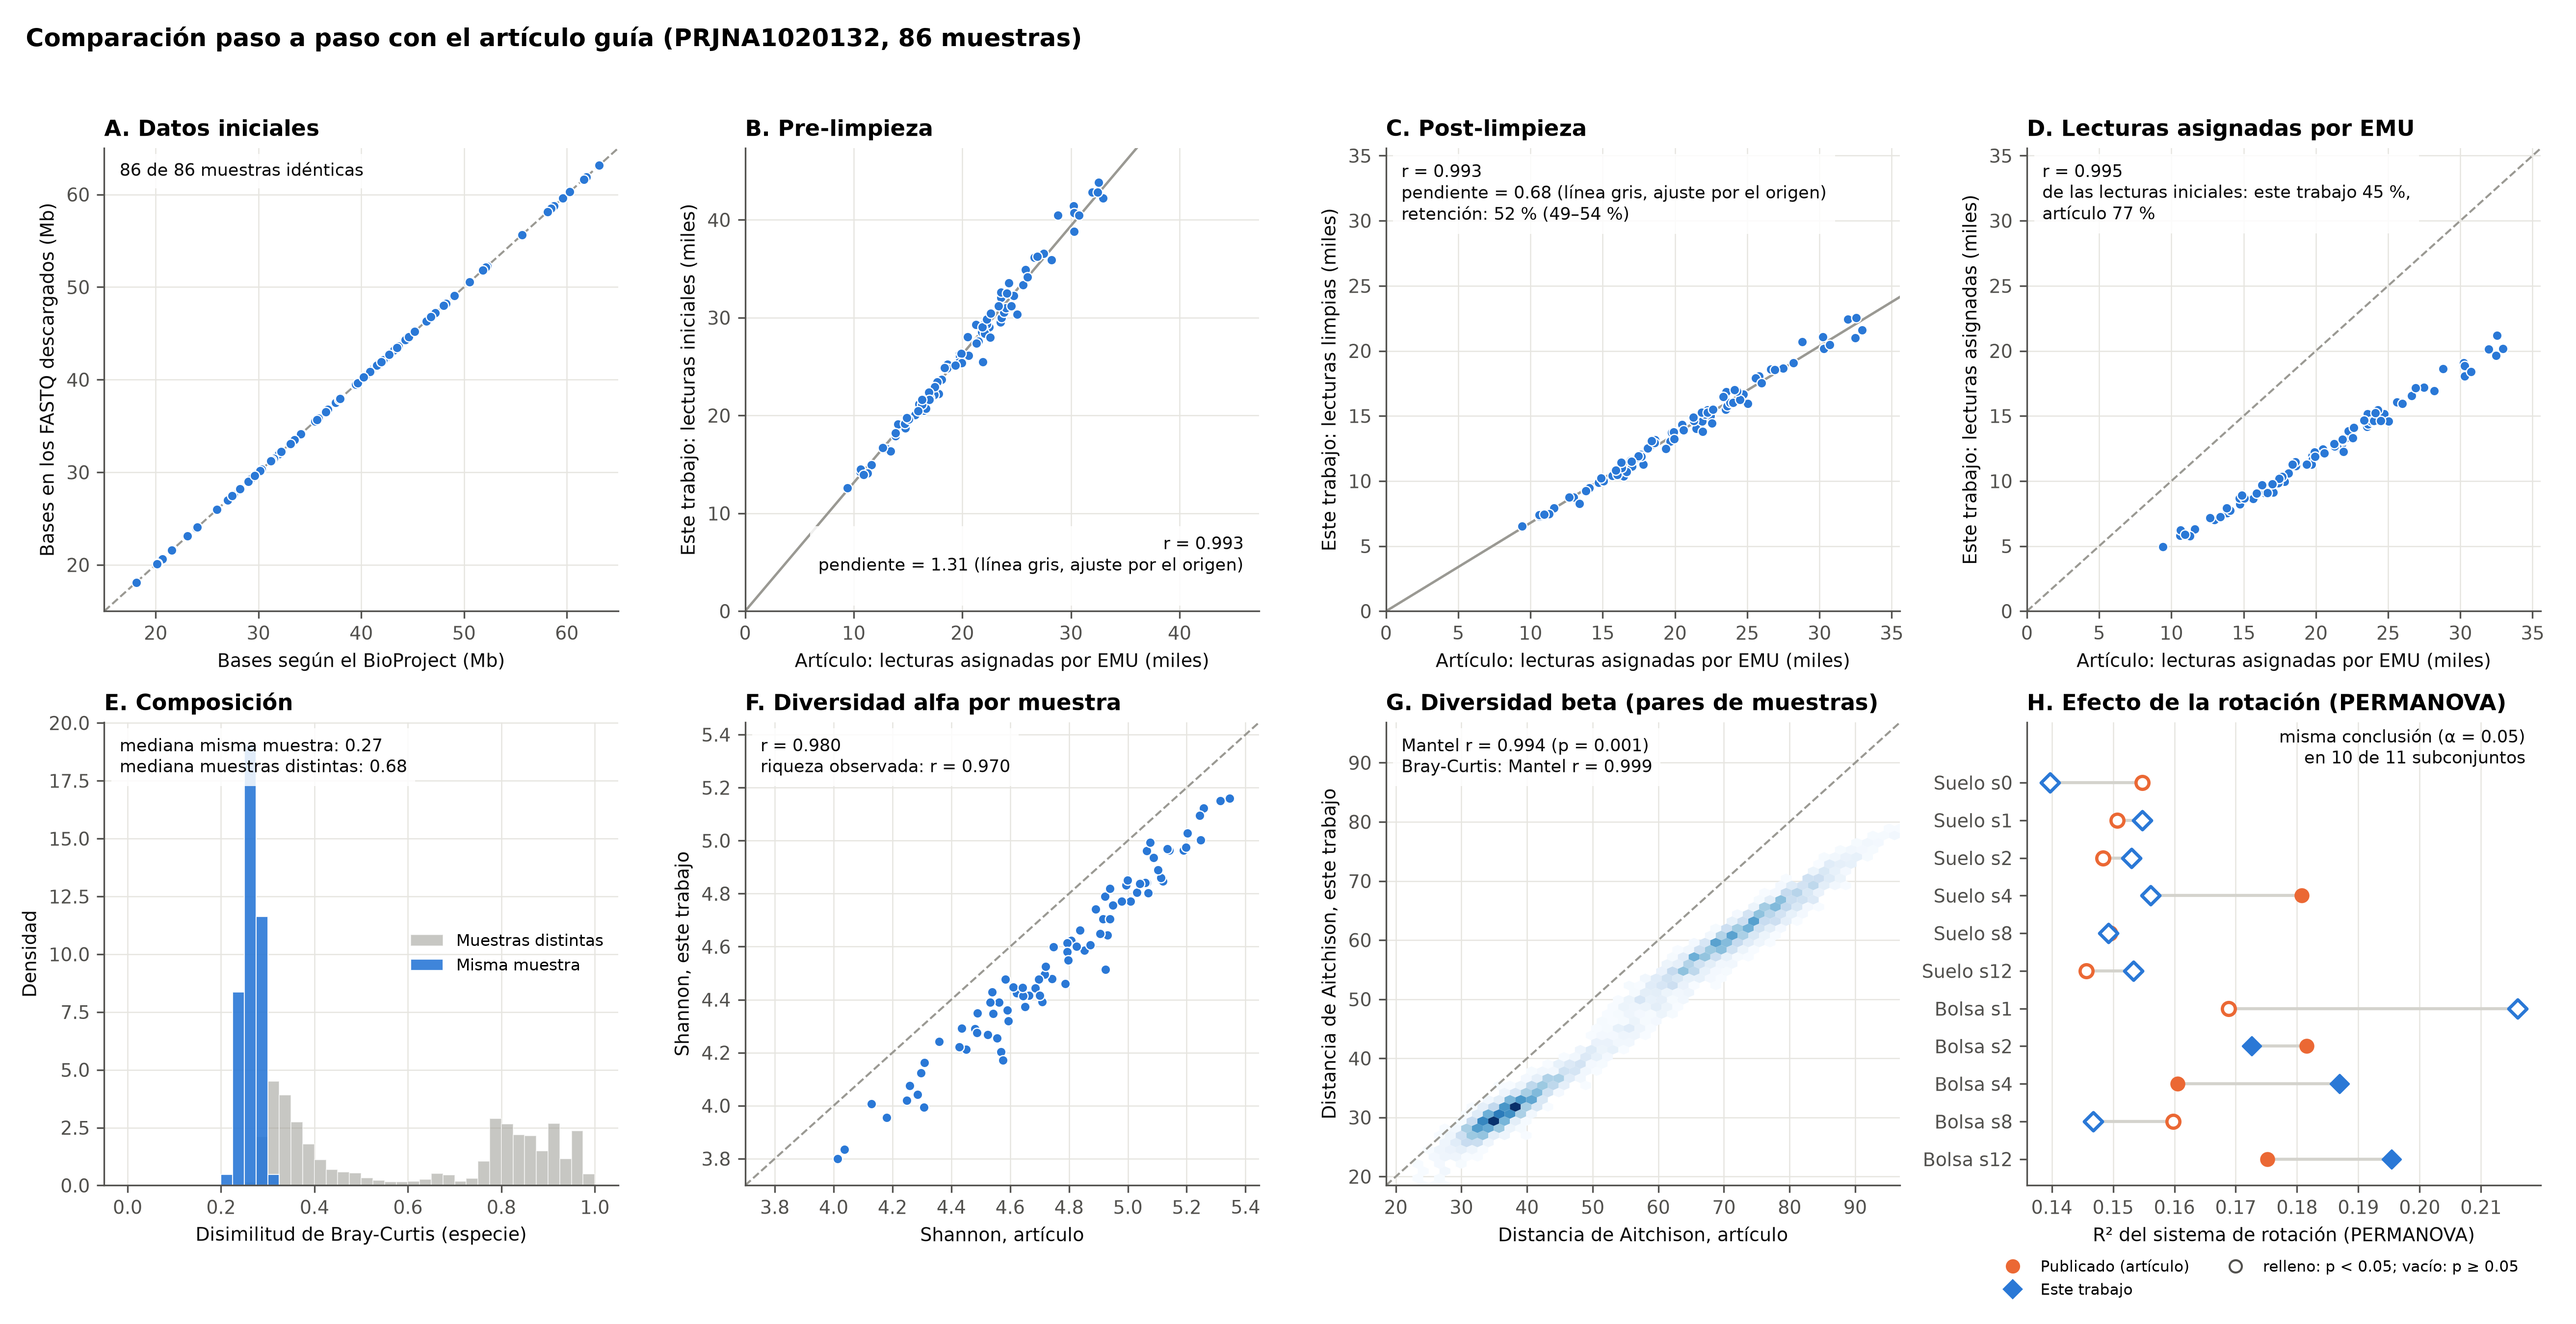
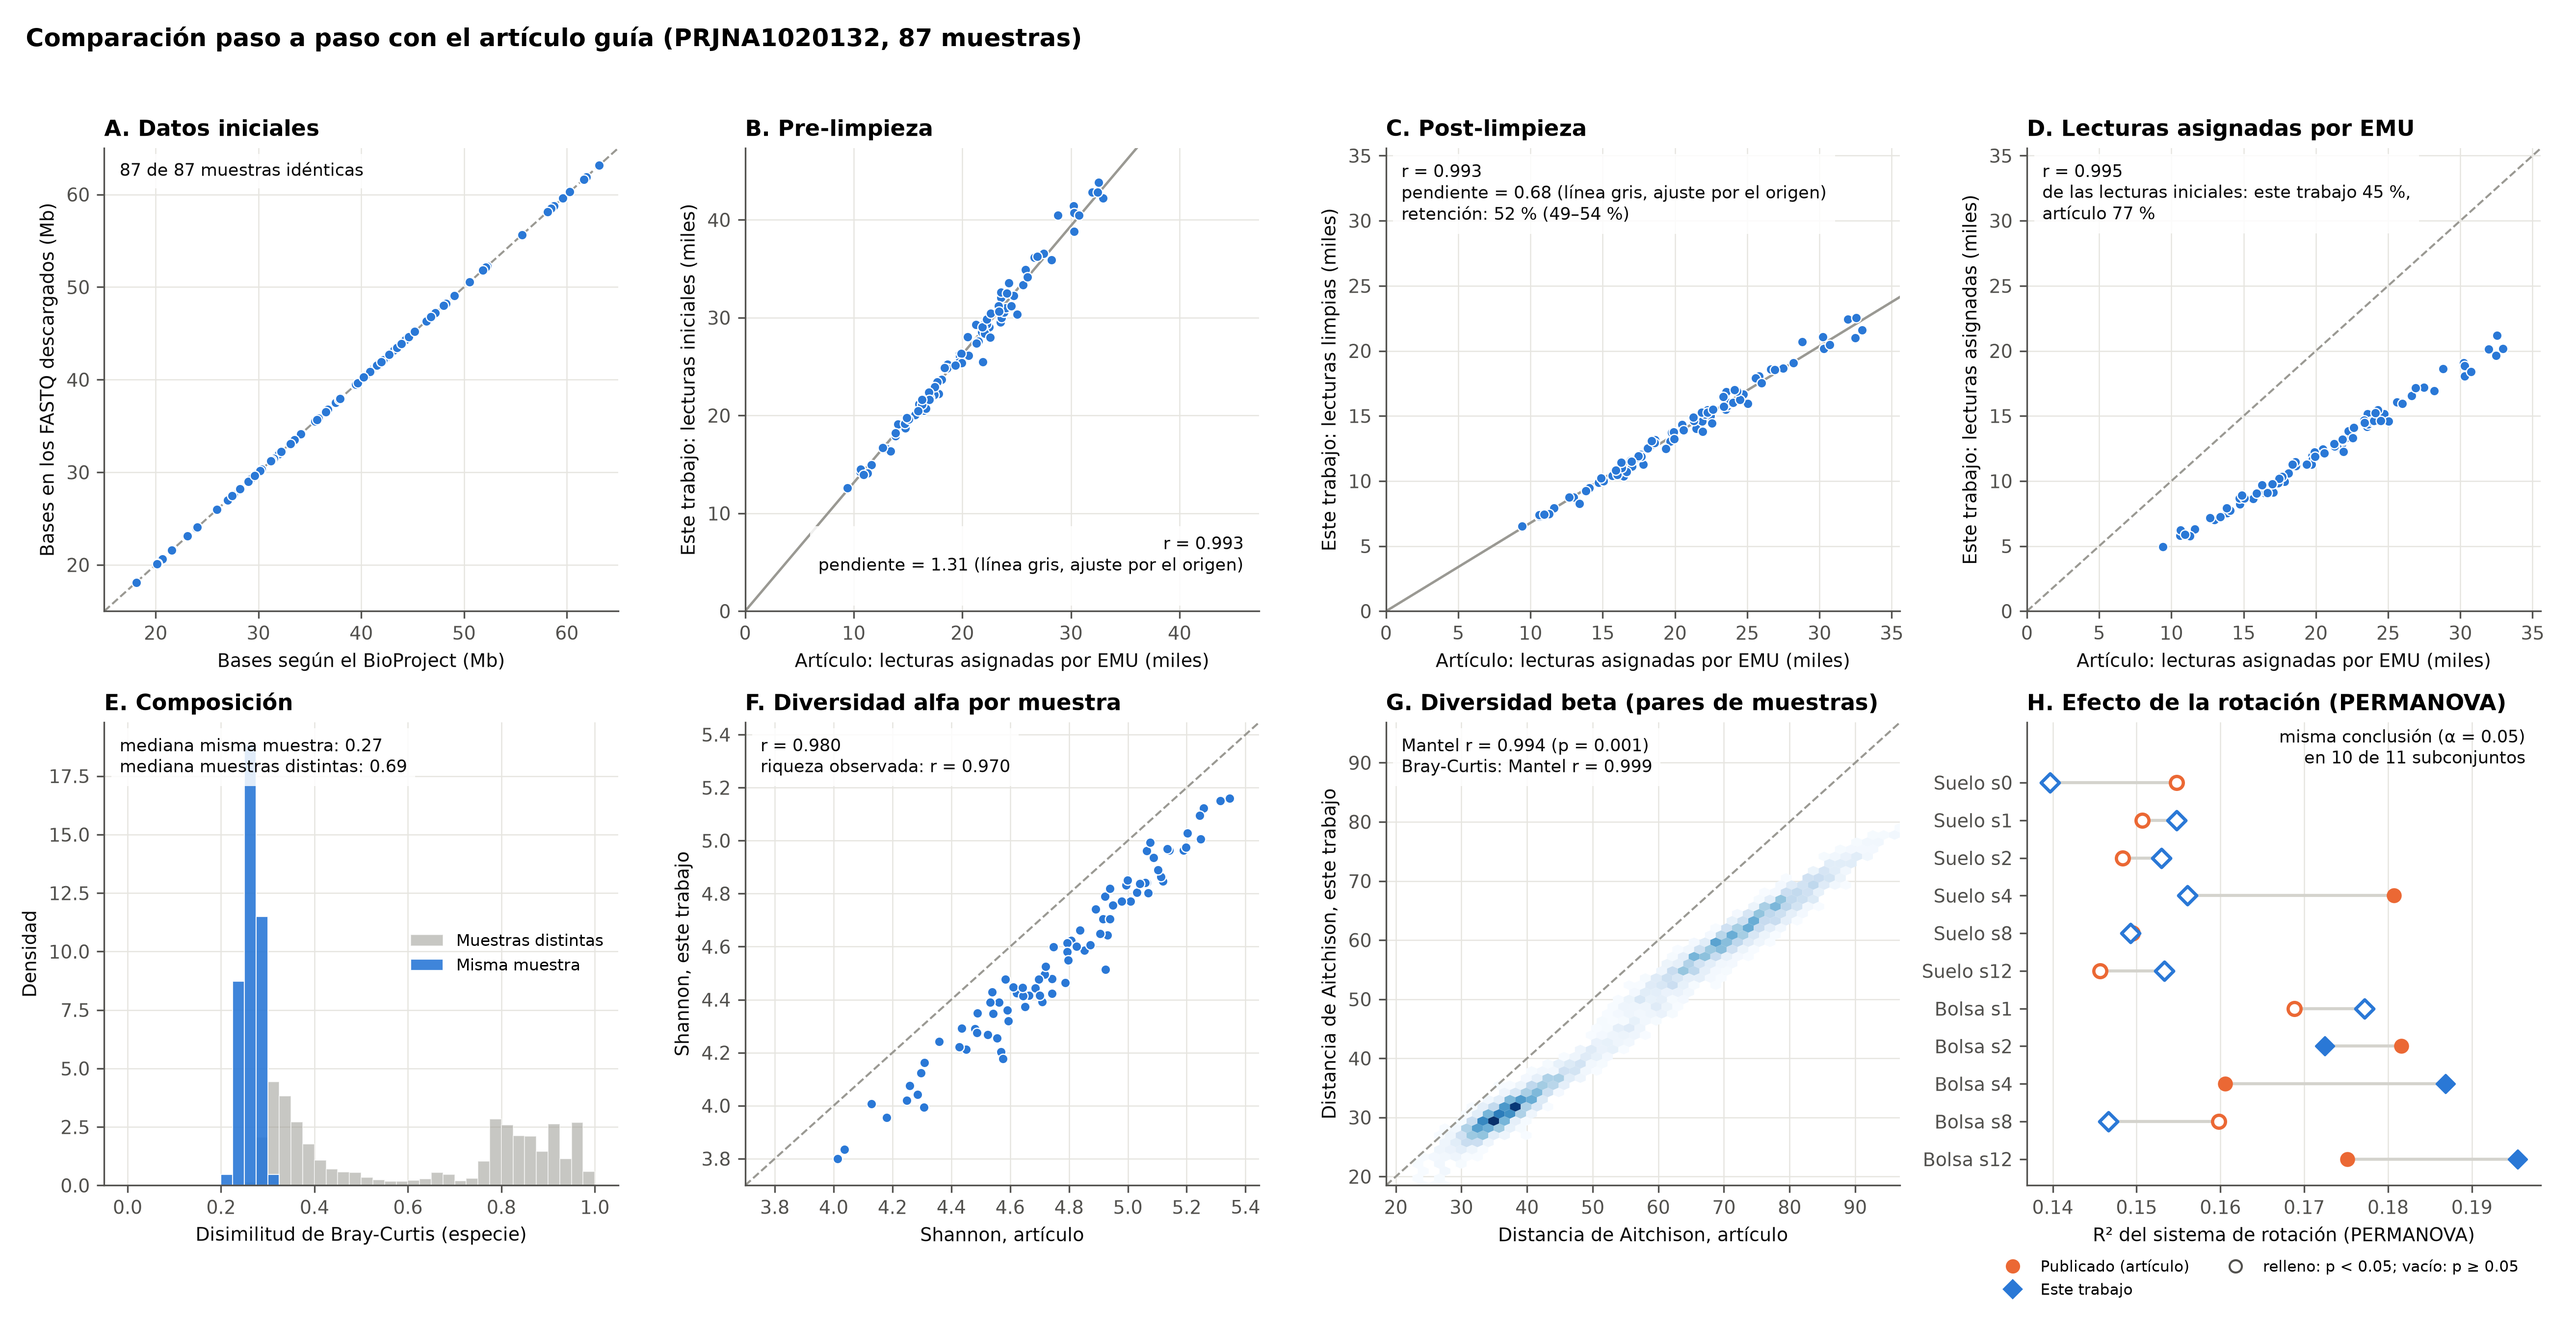
Update annex 11 to 87 samples and align annex descriptions with the thesis

diff --git a/README.md b/README.md
@@ -26,7 +26,7 @@ Los anexos reúnen los resultados y la información que no pudieron incluirse en
 | 8 | [Anexo_08_Diferencias_por_genero](Anexo_08_Diferencias_por_genero) | Medias propias vs. artículo y correlación de Pearson (género) | Obj. 1 › Diseño conceptual: Taxonomía |
 | 9 | [Anexo_09_Diferencias_por_especie](Anexo_09_Diferencias_por_especie) | Medias propias vs. artículo y correlación de Pearson (especie) | Obj. 1 › Diseño conceptual: Taxonomía |
 | 10 | [Anexo_10_Diversidad_PRJNA1020132](Anexo_10_Diversidad_PRJNA1020132) | Shannon y riqueza observada, Bray-Curtis/Jaccard, PCoA y PERMANOVA del conjunto de referencia | Obj. 1 › Diseño conceptual: Diversidad |
-| 11 | [Anexo_11_Comparacion_articulo_guia](Anexo_11_Comparacion_articulo_guia) | Comparación por muestra con el artículo guía en cada paso del pipeline | Obj. 1 › Validación del pipeline frente al artículo guía |
+| 11 | [Anexo_11_Comparacion_articulo_guia](Anexo_11_Comparacion_articulo_guia) | Comparación por muestra con el artículo guía en cada paso del pipeline | Obj. 1 › Diseño conceptual: Denoising y trimming; Diseño conceptual: Diversidad |
 | 12 | [Anexo_12_Genomas_bacterianos_Obj2](Anexo_12_Genomas_bacterianos_Obj2) | 192 genomas descargados para el Objetivo 2 | Obj. 2 › Preparación de datos de entrada |
 | 13 | [Anexo_13_Predicciones_DeepPBI-KG_Obj2](Anexo_13_Predicciones_DeepPBI-KG_Obj2) | Matriz completa de predicciones y tablas filtradas (umbral 0.85) | Obj. 2 › Filtrado de probabilidades; Comprobación con literatura |
 | 14 | [Anexo_14_Redes_Gephi_Obj2](Anexo_14_Redes_Gephi_Obj2) | Grafos de Gephi (red completa y top 4) | Obj. 2 › Filtrado de probabilidades |
@@ -55,7 +55,7 @@ Resume las métricas de calidad obtenidas en las lecturas crudas de las 88 muest
 
 **Anexo 4. Estadísticas básicas después del proceso de limpieza**
 
-Presenta las mismas métricas del Anexo 3 calculadas sobre las lecturas que superaron el recorte de primers con Pychopper y el filtrado por longitud (1000–1700 pb) y calidad con Filtlong. Incluye, para cada muestra, el porcentaje de lecturas y bases retenidas y removidas, lo que permite valorar el efecto de la limpieza.
+Presenta las mismas métricas del Anexo 3 calculadas sobre las lecturas que superaron el recorte de primers y filtrado por calidad con Pychopper (Q ≥ 12) y por longitud con Filtlong (1.000–1.700 pb). Incluye, para cada muestra, el porcentaje de lecturas y bases retenidas y removidas, lo que permite valorar el efecto de la limpieza.
 
 **Anexo 5. Abundancia relativa de géneros del conjunto de referencia**
 
@@ -83,7 +83,7 @@ Reúne el análisis de diversidad del conjunto de referencia procesado con el pi
 
 **Anexo 11. Comparación paso a paso con el artículo guía**
 
-Compara, muestra por muestra, los resultados del pipeline propio con los de Erlandson et al. (2024) para las 86 muestras del proyecto PRJNA1020132 con datos en ambos análisis. Contrasta las bases de los archivos descargados con las del BioProject; las lecturas antes y después de la limpieza y las asignadas por EMU con las lecturas asignadas en el artículo; la disimilitud de Bray-Curtis entre los perfiles de una misma muestra en ambos análisis; los índices de Shannon y la riqueza observada; la prueba de Mantel entre las matrices de distancia, y la PERMANOVA por tipo de muestra y semana con el mismo método del artículo. Como el artículo no publicó estadísticas por etapa para 2020, las lecturas de cada paso se comparan con las que asignó EMU en el artículo. Incluye la figura con los ocho pasos de la comparación y las tablas de resumen, por muestra y de PERMANOVA.
+Compara, muestra por muestra, los resultados del pipeline propio con los de Erlandson et al. (2024) para las 87 muestras del proyecto PRJNA1020132 con datos en ambos análisis. Contrasta las bases de los archivos descargados con las del BioProject; las lecturas antes y después de la limpieza y las asignadas por EMU con las lecturas asignadas en el artículo; la disimilitud de Bray-Curtis entre los perfiles de una misma muestra en ambos análisis; los índices de Shannon y la riqueza observada; la prueba de Mantel entre las matrices de distancia, y la PERMANOVA por tipo de muestra y semana con el mismo método del artículo. Como el artículo no publicó estadísticas por etapa para 2020, las lecturas de cada paso se comparan con las que asignó EMU en el artículo. Incluye la figura con los ocho pasos de la comparación y las tablas de resumen, por muestra y de PERMANOVA.
 
 **Anexo 12. Genomas bacterianos descargados para el Objetivo 2**
 
